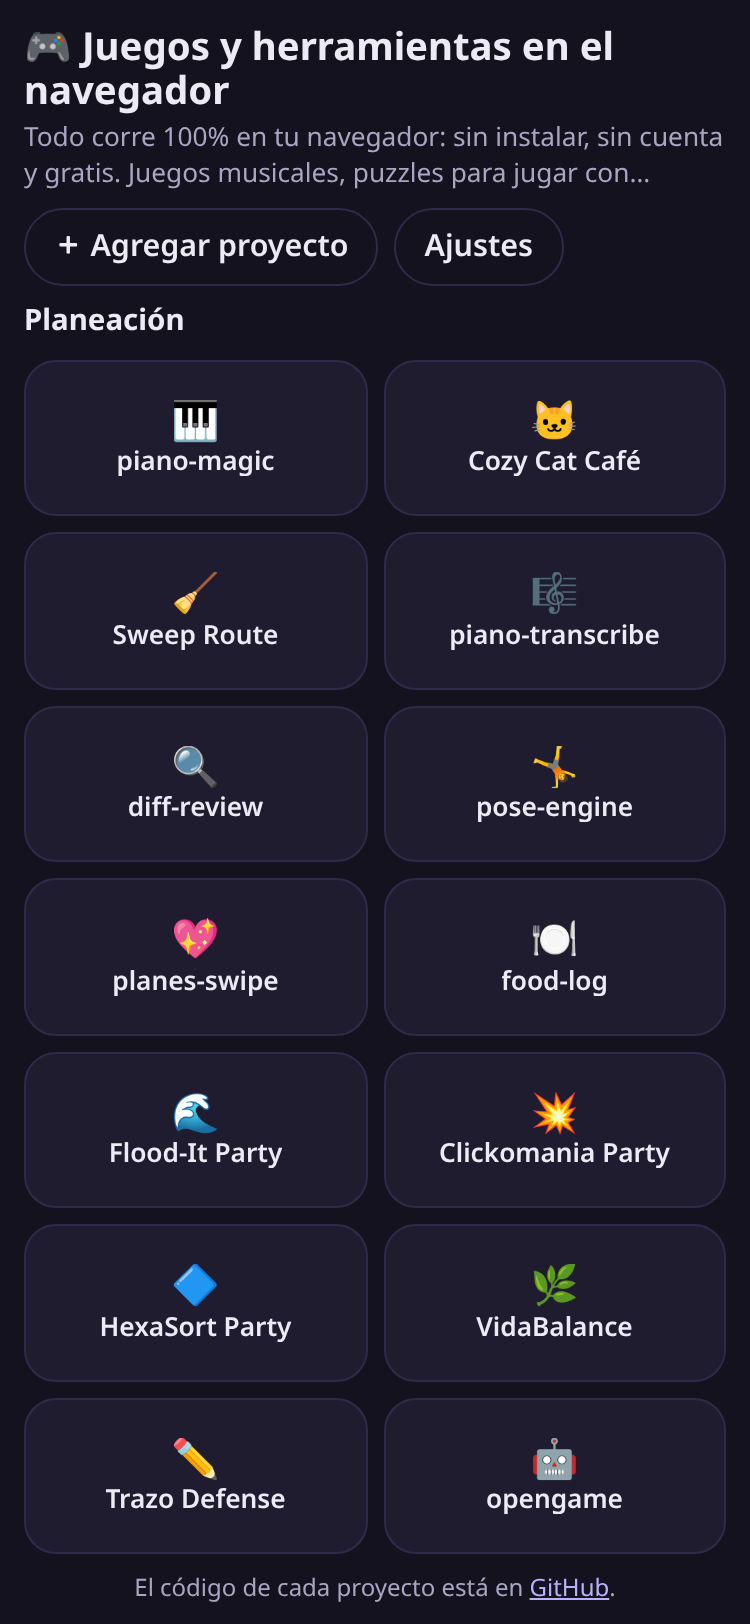
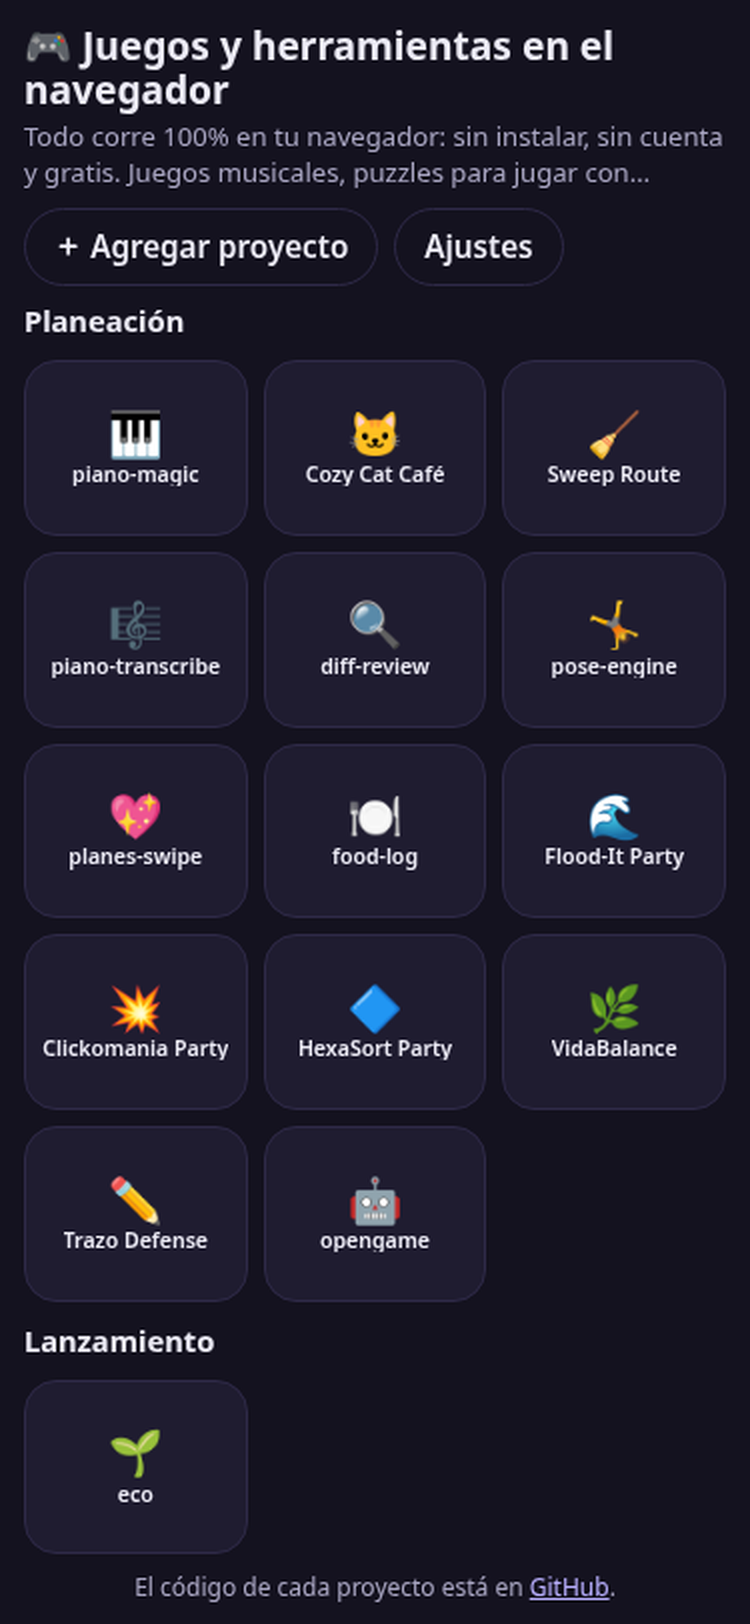
v24: agregar eco al portafolio

diff --git a/index.html b/index.html
@@ -44,13 +44,13 @@
   <meta name="twitter:title" content="Juegos y herramientas gratis en el navegador">
   <meta name="twitter:description" content="Juegos y herramientas gratis en el navegador, sin instalar.">
   <meta name="twitter:image" content="https://juliangdeveloper.github.io/og.jpg">
-  <link rel="stylesheet" href="styles.css?v=23">
-  <script src="config.js?v=23" defer></script>
-  <script src="portafolio.js?v=23" defer></script>
-  <script src="proyecto.js?v=23" defer></script>
-  <script src="aviso.js?v=23" defer></script>
-  <script src="vistas.js?v=23" defer></script>
-  <script src="mazmorra.js?v=23" defer></script>
+  <link rel="stylesheet" href="styles.css?v=24">
+  <script src="config.js?v=24" defer></script>
+  <script src="portafolio.js?v=24" defer></script>
+  <script src="proyecto.js?v=24" defer></script>
+  <script src="aviso.js?v=24" defer></script>
+  <script src="vistas.js?v=24" defer></script>
+  <script src="mazmorra.js?v=24" defer></script>
   <script>if (window.top !== window.self) window.top.location.replace(location.href);</script>
 </head>
 <body>
@@ -140,6 +140,12 @@
         <h3><span aria-hidden="true">✏</span> Trazo Defense</h3>
         <p>Tower defense para aprender a dibujar: cada torre se activa con un ejercicio de dibujo medido.</p>
         <p class="links"><a class="btn" href="/app/?app=trazo-defense">▶ Jugar</a> <a class="code" href="https://github.com/juliangdeveloper/trazo-defense">Código</a></p>
+      </li>
+      <li class="card" data-app="eco">
+        <a class="thumb" href="/app/?app=eco" tabindex="-1" aria-hidden="true"><img src="img/eco.webp" alt="" width="480" height="300" loading="lazy" decoding="async"></a>
+        <h3><span aria-hidden="true">🌱</span> eco</h3>
+        <p>Agente de IA en el navegador: habla contigo, crea sus propias herramientas y recuerda lo que importa.</p>
+        <p class="links"><a class="btn" href="/app/?app=eco">▶ Probar</a> <a class="code" href="https://github.com/juliangdeveloper/eco">Código</a></p>
       </li>
       <li class="card" data-fijo data-app="opengame">
         <a class="thumb" href="/app/?app=opengame" tabindex="-1" aria-hidden="true"><span class="thumb-letra">🤖</span></a>

diff --git a/app/index.html b/app/index.html
@@ -9,7 +9,7 @@
   <link rel="icon" href="/favicon.svg" type="image/svg+xml">
   <link rel="icon" href="/favicon-32.png" sizes="32x32" type="image/png">
   <link rel="apple-touch-icon" href="/apple-touch-icon.png">
-  <link rel="stylesheet" href="/styles.css?v=23">
+  <link rel="stylesheet" href="/styles.css?v=24">
   <script>
     (function () {
       var APPS = {
@@ -26,6 +26,7 @@
         "hexasort-party-v2": ["HexaSort Party", "/hexasort-party-v2/"],
         "vidabalance-v2": ["VidaBalance", "/vidabalance-v2/"],
         "trazo-defense": ["Trazo Defense", "/trazo-defense/"],
+        "eco": ["eco", "/eco/"],
         "opengame": ["opengame", "/opengame/"]
       };
       if (window.top !== window.self) { window.top.location.replace(location.href); return; }

diff --git a/config.js b/config.js
@@ -9,7 +9,7 @@
   }
 
   window.PORTAFOLIO_CONFIG = congelar({
-    VERSION: "23",
+    VERSION: "24",
     CLAVE_MAZMORRA: "portafolio.v1.mazmorra",
     VALOR_ON: "1",
     VALOR_OFF: "0",

diff --git a/README.md b/README.md
@@ -4,7 +4,7 @@ Juegos y herramientas que se abren en el navegador, sin instalar.
 
 **[Abrir el portafolio](https://juliangdeveloper.github.io/)**
 
-<img src="img/portafolio.png?v=23" alt="Portafolio en el celular con las tarjetas de los 14 proyectos en Planeación" width="320">
+<img src="img/portafolio.png?v=24" alt="Portafolio en el celular con las tarjetas de los 15 proyectos en Planeación" width="320">
 
 ## Cómo se usa
 
@@ -23,7 +23,7 @@ Juegos y herramientas que se abren en el navegador, sin instalar.
 
 HTML, CSS y JavaScript, sin build. Los datos quedan en `localStorage`.
 
-Versión actual: `23`.
+Versión actual: `24`.
 
 ## Licencia
 
